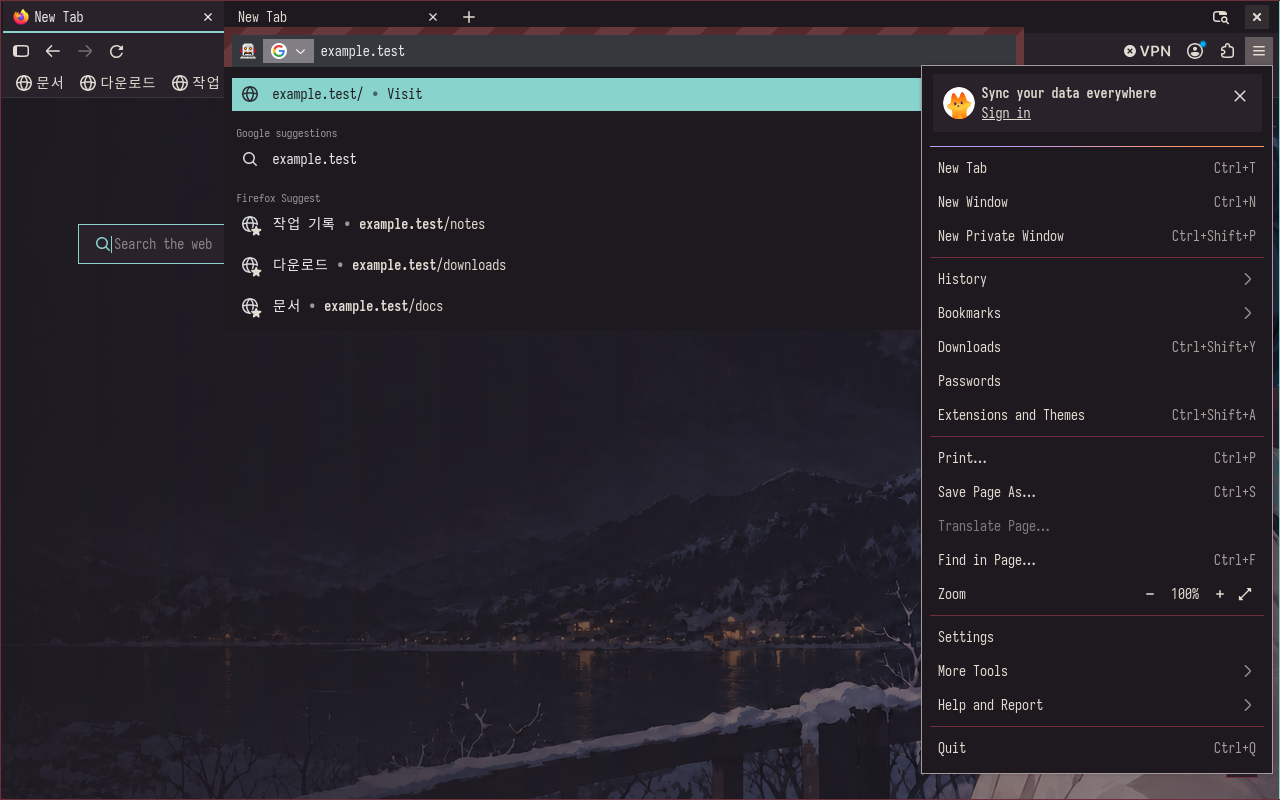
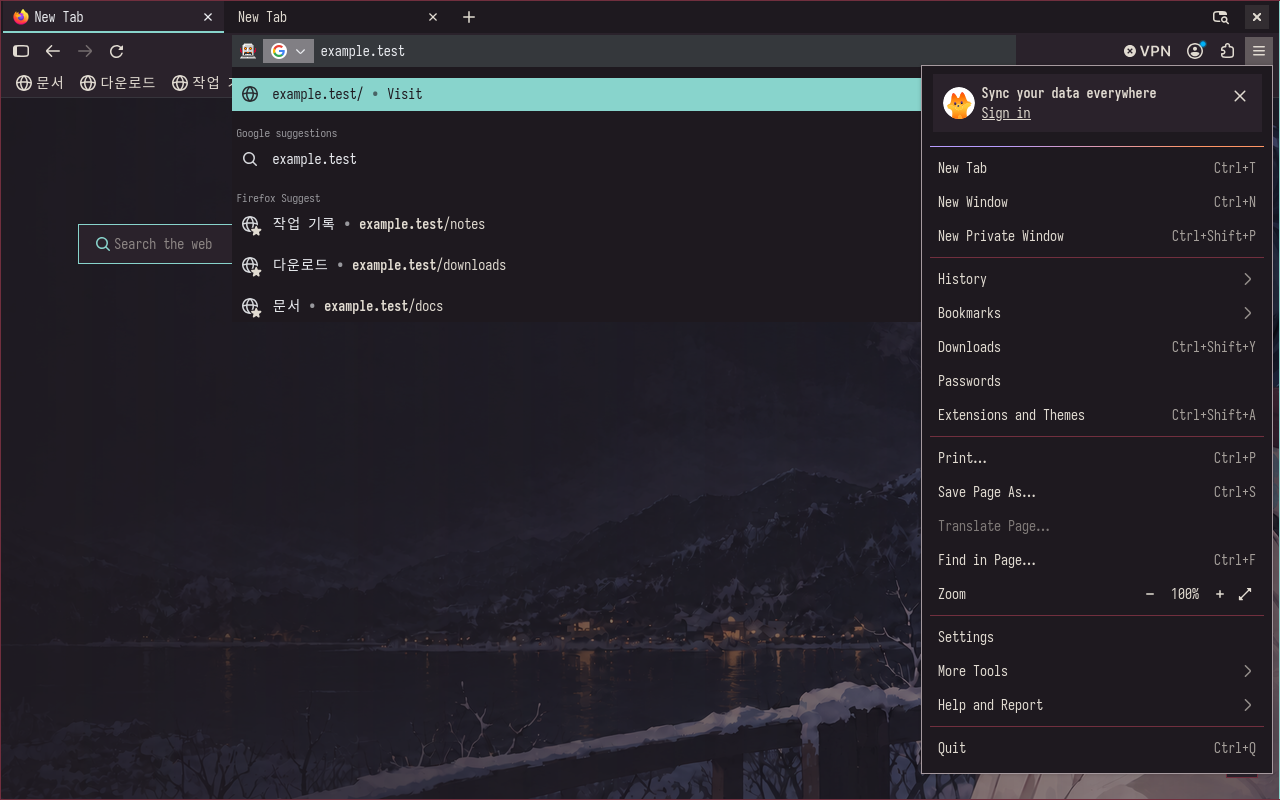
Keep Firefox address bar aligned when suggestions open

Changed region(s): [[0.1562, 0.0312, 0.8125, 0.0938]]

diff --git a/yuru/templates/firefox/userChrome.css b/yuru/templates/firefox/userChrome.css
@@ -25,6 +25,8 @@
     --urlbar-height: 32px !important;
     --urlbar-padding-block: 2px !important;
     --urlbar-container-padding-block: 2px !important;
+    /* Also feeds the results background's derived outsets on :root. */
+    --urlbar-background-overhang-open: 0px !important;
     --arrowpanel-border-radius: 0px !important;
     --panel-border-radius: 0px !important;
     --panel-menuitem-border-radius: 0px !important;
@@ -161,6 +163,10 @@
    * Nova paints a background border, an input-container outline and the input's
    * own focus ring independently. Suppress those rings at their source. */
   #urlbar {
+    /* Native open backgrounds overhang by 8px and cover the compact tab rail.
+     * Keep the input and the anchored results at the same width when opened. */
+    --urlbar-input-growth-open-inline: 0px !important;
+    --urlbar-input-growth-open-block: 0px !important;
     --urlbar-background-outline-focused: none !important;
     --urlbar-background-border-focused: 1px solid transparent !important;
     --urlbar-input-container-outline-open: none !important;

diff --git a/yuru/verify_firefox.py b/yuru/verify_firefox.py
@@ -66,6 +66,22 @@ def wait_until(check, seconds=12):
     raise TimeoutError('Private Firefox did not become ready')
 
 
+def urlbar_geometry(client):
+    return client.script('''
+      const rect = node => {
+        const r = node.getBoundingClientRect();
+        return {top:r.top, left:r.left, right:r.right, bottom:r.bottom};
+      };
+      return {
+        input:rect(gURLBar.querySelector('.urlbar-input-container')),
+        background:rect(gURLBar.querySelector('.urlbar-background')),
+        resultsBackground:rect(gURLBar.querySelector('.urlbarView-background')),
+        toolbar:rect(document.querySelector('#nav-bar')),
+        popupOpen:gURLBar.hasAttribute('popover-open')
+      };
+    ''')
+
+
 def main():
     artifacts = ROOT / 'verification'
     with tempfile.TemporaryDirectory(prefix='yuru-firefox-') as directory:
@@ -265,9 +281,29 @@ def main():
                 assert focus['input']['caret'] == 'rgb(136, 212, 204)', focus
                 assert all(v['outline'] == 'none' for v in focus.values()), focus
                 assert focus['background']['borderColor'] == 'rgba(0, 0, 0, 0)', focus
-                records.append({'startup': attempt + 1, 'chrome': values, 'controls': controls, 'switcher': switcher,
-                                'content': content, 'newtab': newtab, 'focus':focus})
+                # Match the reported small-window case as well as a wide window.
                 if attempt == 1:
+                    run(['swaymsg', 'output HEADLESS-1 mode 909x731'], env)
+                    time.sleep(.3)
+                client.script('gURLBar.view.close();')
+                wait_until(lambda: client.script('return !gURLBar.hasAttribute("popover-open");'))
+                idle_geometry = urlbar_geometry(client)
+                client.script('gURLBar.startQuery({searchString:"example.test",allowAutofill:false});')
+                wait_until(lambda: client.script('return gURLBar.hasAttribute("popover-open");'))
+                open_geometry = urlbar_geometry(client)
+                geometry = {'outputSize': [1280, 800] if attempt == 0 else [909, 731],
+                            'idle': idle_geometry, 'open': open_geometry}
+                assert open_geometry['popupOpen'], geometry
+                assert idle_geometry['input'] == open_geometry['input'], geometry
+                for edge in ('top', 'left', 'right'):
+                    assert open_geometry['background'][edge] == open_geometry['input'][edge], geometry
+                for edge in ('left', 'right'):
+                    assert abs(open_geometry['resultsBackground'][edge] - open_geometry['input'][edge]) < .02, geometry
+                assert open_geometry['background']['top'] >= open_geometry['toolbar']['top'], geometry
+                records.append({'startup': attempt + 1, 'chrome': values, 'controls': controls, 'switcher': switcher,
+                                'content': content, 'newtab': newtab, 'focus':focus, 'geometry':geometry})
+                if attempt == 1:
+                    run(['swaymsg', 'output HEADLESS-1 mode 1280x800'], env)
                     client.call('WebDriver:DeleteSession')
                     client.socket.close()
                     time.sleep(.5)
@@ -319,6 +355,9 @@ def main():
                 if keyboard.poll() is not None:
                     raise RuntimeError(keyboard.stderr.read().decode())
                 run(['grim', '-o', 'HEADLESS-1', str(artifacts / 'native-firefox-focus.png')], env)
+                run(['swaymsg', 'output HEADLESS-1 mode 909x731'], env)
+                time.sleep(.3)
+                run(['grim', '-o', 'HEADLESS-1', str(artifacts / 'native-firefox-focus-compact.png')], env)
             finally:
                 stop_group(keyboard)
             run(['/usr/bin/wtype', '-k', 'Escape', '-k', 'Escape'], env)
